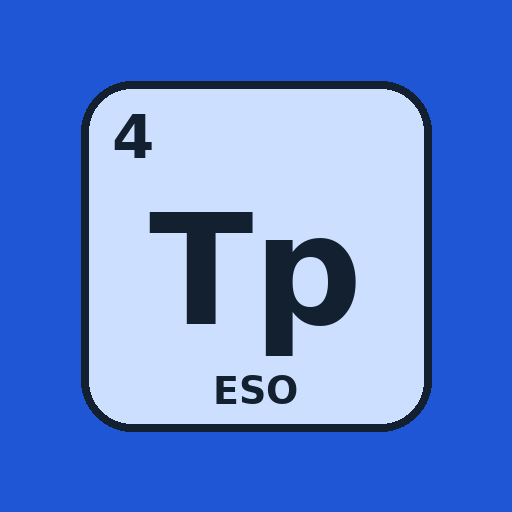
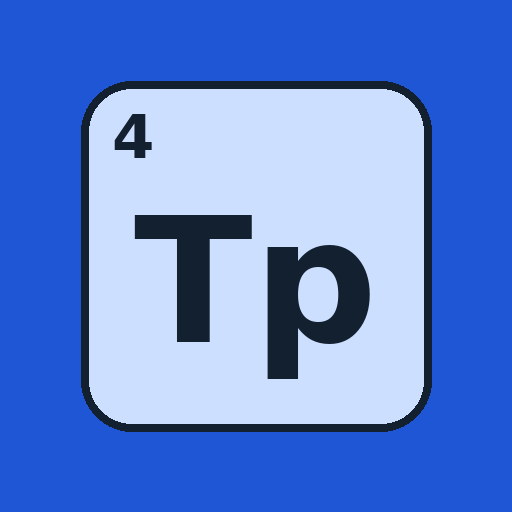
v1.5: revisión con las Human Interface Guidelines (texto mínimo, contraste, ✓/✗, hojas, segmentos, foco, icono)
Claude-Session: https://claude.ai/code/session_01SzTzzxmVfzBBy3eWrkvyKx

Changed region(s): [[0.4062, 0.4688, 0.75, 0.8125], [0.25, 0.4062, 0.5, 0.6875]]

diff --git a/index.html b/index.html
@@ -3,7 +3,7 @@
 <head>
 <meta charset="utf-8">
 <meta name="viewport" content="width=device-width,initial-scale=1,viewport-fit=cover">
-<meta name="app-version" content="1.4">
+<meta name="app-version" content="1.5">
 <meta name="theme-color" content="#ffffff" media="(prefers-color-scheme: light)">
 <meta name="theme-color" content="#17212d" media="(prefers-color-scheme: dark)">
 <meta name="apple-mobile-web-app-status-bar-style" content="default">
@@ -24,7 +24,7 @@ img{max-width:100%}
 :root{
   --bg:#eaf0f5; --surface:#ffffff; --surface-2:#f4f7fa; --ink:#132030; --muted:#5a6b7e; --line:#d3dce6;
   --accent:#1f56d6; --accent-ink:#ffffff; --accent-soft:#dfe8fd;
-  --good:#1d8549; --good-soft:#d9f2e3; --bad:#c0352d; --bad-soft:#fbe0de; --warn:#b26b00;
+  --good:#17703d; --good-soft:#d9f2e3; --bad:#a82a23; --bad-soft:#fbe0de; --warn:#b26b00;
   --c-am:#ffd3c7; --c-at:#ffe3b0; --c-mt:#e0d9f6; --c-lan:#f6d2ec; --c-act:#ead6c8;
   --c-mp:#d0e3ee; --c-sm:#cdeee2; --c-nm:#e0f2c2; --c-hal:#f9f0ad; --c-gn:#cddfff;
   --lv0:#dfe5ec; --lv1:#f6c2bd; --lv2:#ffe08a; --lv3:#8fd9ab;
@@ -69,7 +69,7 @@ header{flex:none;background:var(--surface);border-bottom:1px solid var(--line);p
 .hd h1 small{display:block;font:500 12px var(--f-body);color:var(--muted);letter-spacing:0}
 .hd .sp{flex:1}
 .scope{display:flex;flex-direction:column;align-items:flex-end;gap:2px}
-.scope label{font-size:10px;text-transform:uppercase;letter-spacing:.08em;color:var(--muted);font-weight:600}
+.scope label{font-size:11px;text-transform:uppercase;letter-spacing:.08em;color:var(--muted);font-weight:600}
 .scope select{background:var(--surface-2);border:1px solid var(--line);border-radius:10px;padding:6px 8px;font-size:13px;font-weight:600;max-width:150px}
 @media (pointer:coarse){.scope select,.search input{font-size:16px}}
 
@@ -86,11 +86,11 @@ nav.tabs{flex:none;background:var(--surface);border-top:1px solid var(--line);pa
 .tab{background:none;border:0;padding:8px 4px 9px;display:flex;flex-direction:column;align-items:center;gap:3px;font-size:11.5px;font-weight:600;color:var(--muted)}
 .tab svg{width:24px;height:24px;stroke:currentColor;fill:none;stroke-width:1.8;stroke-linecap:round;stroke-linejoin:round}
 .tab[aria-current="page"]{color:var(--accent)}
-.tab[aria-current="page"] svg{stroke-width:2.3}
+.tab[aria-current="page"] svg{stroke-width:2.3;fill:color-mix(in srgb,currentColor 18%,transparent)}
 
 /* Controles */
 .row{display:flex;flex-wrap:wrap;gap:8px;align-items:center}
-.seg{display:inline-flex;background:var(--surface-2);border:1px solid var(--line);border-radius:11px;padding:3px;gap:2px}
+.seg{display:inline-grid;grid-auto-flow:column;grid-auto-columns:1fr;background:var(--surface-2);border:1px solid var(--line);border-radius:11px;padding:3px;gap:2px}
 .seg button{border:0;background:none;padding:6px 11px;border-radius:8px;font-size:13px;font-weight:600;color:var(--muted)}
 .seg button[aria-pressed="true"]{background:var(--surface);color:var(--ink);box-shadow:0 1px 2px rgb(0 0 0 / .12)}
 .chip{border:1px solid var(--line);background:var(--surface);border-radius:999px;padding:5px 11px 5px 8px;font-size:12.5px;font-weight:500;display:inline-flex;align-items:center;gap:6px}
@@ -113,26 +113,27 @@ nav.tabs{flex:none;background:var(--surface);border-top:1px solid var(--line);pa
 /* Tabla periódica */
 .pt-scroll{overflow-x:auto;margin-inline:calc(-1 * max(16px,env(safe-area-inset-left,0px)));padding-inline:max(16px,env(safe-area-inset-left,0px));padding-bottom:6px;scrollbar-width:thin}
 .pt-wrap{container-type:inline-size}
-.pt{display:grid;grid-template-columns:22px repeat(18,46px);grid-template-rows:20px repeat(7,52px) 12px repeat(2,52px);gap:2px;width:max-content}
+.pt{display:grid;grid-template-columns:24px repeat(18,48px);grid-template-rows:22px repeat(7,52px) 12px repeat(2,52px);gap:2px;width:max-content}
 .pt.fit{grid-template-columns:.5fr repeat(18,minmax(0,1fr));grid-template-rows:auto;grid-auto-rows:auto;width:100%;gap:1.5px}
 .pt.fit .cell,.pt.fit .ph{aspect-ratio:1/1.12}
 .pt.fit .gap-row{height:6px}
-.lbl{font:600 10px var(--f-mono);color:var(--muted);display:flex;align-items:center;justify-content:center}
+.lbl{font:600 11px var(--f-mono);color:var(--muted);display:flex;align-items:center;justify-content:center}
 .pt.fit .lbl{font-size:max(6px,2.1cqi)}
 .cell{position:relative;border:0;border-radius:5px;background:var(--cat,var(--lv0));padding:0;display:flex;flex-direction:column;align-items:center;justify-content:center;line-height:1;min-width:0;transition:opacity .15s,transform .1s}
-.cell .z{position:absolute;top:3px;left:4px;font:500 8.5px var(--f-mono);opacity:.75}
-.cell .s{font:700 17px var(--f-display);letter-spacing:-.02em}
-.cell .n{font-size:7.5px;margin-top:3px;max-width:94%;overflow:hidden;text-overflow:ellipsis;white-space:nowrap;opacity:.85}
+.cell .z{position:absolute;top:3px;left:4px;font:500 11px var(--f-mono);opacity:.8}
+.cell .s{font:700 19px var(--f-display);letter-spacing:-.02em;margin-top:8px}
+.cell .n{display:none}
 .pt.fit .cell{border-radius:3px}
 .pt.fit .cell .z,.pt.fit .cell .n{display:none}
+.pt.fit .cell .s{margin-top:0}
 .pt.fit .cell .s{font-size:max(8px,2.9cqi);letter-spacing:-.04em}
 .cell:active{transform:scale(.94)}
 .cell.dim{opacity:.18}
 .cell.hide-s .s,.cell.hide-s .n{visibility:hidden}
 .pt.mastery .cell{background:var(--lvc,var(--lv0))}
-.ph{border:1px dashed var(--line);border-radius:5px;display:flex;align-items:center;justify-content:center;font:600 8px var(--f-mono);color:var(--muted);text-align:center;line-height:1.1}
+.ph{border:1px dashed var(--line);border-radius:5px;display:flex;align-items:center;justify-content:center;font:600 11px var(--f-mono);color:var(--muted);text-align:center;line-height:1.1}
 .pt.fit .ph{font-size:max(5px,1.5cqi)}
-.frow-l{grid-column:1/4;display:flex;align-items:center;justify-content:flex-end;padding-right:6px;font-size:10px;font-weight:600;color:var(--muted)}
+.frow-l{grid-column:1/4;display:flex;align-items:center;justify-content:flex-end;padding-right:6px;font-size:11px;font-weight:600;color:var(--muted)}
 .pt.fit .frow-l{font-size:max(6px,1.8cqi)}
 .legend{display:flex;flex-wrap:wrap;gap:6px}
 .lvleg{display:flex;flex-wrap:wrap;gap:12px;font-size:12.5px}
@@ -163,7 +164,7 @@ nav.tabs{flex:none;background:var(--surface);border-top:1px solid var(--line);pa
 .el-head h2{font-size:24px}
 .facts{display:grid;grid-template-columns:1fr 1fr;gap:1px;background:var(--line);border:1px solid var(--line);border-radius:12px;overflow:hidden;margin-top:14px}
 .facts div{background:var(--surface);padding:9px 11px;min-width:0}
-.facts dt{font-size:10.5px;text-transform:uppercase;letter-spacing:.08em;color:var(--muted);font-weight:600}
+.facts dt{font-size:11px;text-transform:uppercase;letter-spacing:.08em;color:var(--muted);font-weight:600}
 .facts dd{margin:2px 0 0;font-weight:600}
 .facts .wide{grid-column:1/-1}
 .mono{font-family:var(--f-mono);font-weight:500;font-size:13.5px;word-break:break-word}
@@ -282,13 +283,13 @@ nav.tabs{flex:none;background:var(--surface);border-top:1px solid var(--line);pa
 .fill-row{display:flex;gap:6px;justify-content:center;flex-wrap:wrap}
 .slot{display:flex;align-items:center;gap:8px}
 .slot .pl{width:24px;text-align:right;font:600 11px var(--f-mono);color:var(--muted)}
-.box{width:58px;height:52px;border-radius:10px;border:2px dashed var(--line);background:var(--surface);display:grid;place-items:center;font:700 20px var(--f-display);position:relative}
+.box{width:60px;height:56px;border-radius:10px;border:2px dashed var(--line);background:var(--surface);display:grid;place-items:center;font:700 20px var(--f-display);position:relative}
 .fill-row .box{width:clamp(34px,10.5vw,58px)}
 .box.cur{border-color:var(--accent);border-style:solid;box-shadow:0 0 0 3px var(--accent-soft)}
 .box.done{border-style:solid;border-color:transparent;background:var(--cat)}
 .box.bad{border-color:var(--bad);border-style:solid;background:var(--bad-soft);color:var(--bad)}
-.box small{position:absolute;top:2px;left:4px;font:500 9px var(--f-mono);opacity:.7}
-.bank{display:flex;flex-wrap:wrap;gap:8px;justify-content:center}
+.box small{position:absolute;top:2px;left:4px;font:500 11px var(--f-mono);opacity:.75}
+.bank{display:flex;flex-wrap:wrap;gap:10px;justify-content:center}
 .bank button{min-width:56px;height:48px;border-radius:12px;border:1.5px solid var(--line);background:var(--surface);font:700 19px var(--f-display)}
 .bank button.used{visibility:hidden}
 .bank button.shake{animation:shake .35s;border-color:var(--bad);background:var(--bad-soft)}
@@ -310,12 +311,14 @@ nav.tabs{flex:none;background:var(--surface);border-top:1px solid var(--line);pa
 .gear{flex:none;width:44px;height:44px;border:0;background:none;border-radius:12px;display:grid;place-items:center;color:var(--muted);margin-right:-8px}
 .gear svg{width:22px;height:22px;stroke:currentColor;fill:none;stroke-width:1.8;stroke-linecap:round;stroke-linejoin:round}
 .gear:active{background:var(--surface-2)}
+.sheet:focus{outline:none}
 .hd h1 small span{font-family:var(--f-mono);font-size:11px}
 :root[data-fs="s"] main,:root[data-fs="s"] .sheet{zoom:.9}
 :root[data-fs="l"] main,:root[data-fs="l"] .sheet{zoom:1.15}
 :root[data-fs="xl"] main,:root[data-fs="xl"] .sheet{zoom:1.3}
+:root[data-fs="xxl"] main,:root[data-fs="xxl"] .sheet{zoom:1.6}
 .set-group{display:flex;flex-direction:column;gap:8px;margin-top:14px}
-.set-group .seg{align-self:flex-start;flex-wrap:wrap}
+.set-group .seg{align-self:stretch;grid-auto-flow:row;grid-template-columns:repeat(auto-fit,minmax(96px,1fr))}
 .preview{font-size:15px;color:var(--muted)}
 .install-banner{display:flex;align-items:center;gap:10px;background:var(--surface);border:1px solid var(--line);border-radius:14px;padding:8px 6px 8px 12px}
 .install-banner .ic{flex:none;width:36px;height:36px;border-radius:9px;overflow:hidden}
@@ -427,6 +430,7 @@ const SCOPES={
 const VERSION=(document.querySelector('meta[name="app-version"]')||{}).content||"dev";
 // Lo que trae cada versión (lo más nuevo, arriba)
 const NOVEDADES=[
+  ["1.5",["🍏 Revisada con las guías de diseño de Apple: textos de al menos 11 puntos, más contraste, ✓ y ✗ en las respuestas (no solo colores) y tamaño de letra «Enorme»","🔲 Vista «Grande» de la tabla más legible","🎨 Icono más limpio"]],
   ["1.4",["⚙ Nuevo botón de ajustes (arriba a la derecha): tamaño de letra y modo claro u oscuro","🔢 La versión se ve siempre en la cabecera","📲 Instrucciones paso a paso para añadir la app a la pantalla de inicio del iPhone o del Android"]],
   ["1.3",["📍 Nueva pregunta en el test: «Colocar en la tabla». Te dicen un elemento y tocas su casilla en la tabla vacía","🧩 Nuevo modo «Rellenar familias» (en Test): coloca en orden los elementos de cada grupo o periodo, con su truco para memorizar"]],
   ["1.2",["📱 Mejor en el móvil: la tabla entera aprovecha todo el ancho y se lee mejor","👉 En las fichas, desliza la tarjeta: a la derecha si te la sabías, a la izquierda si no","➡ En el test, el botón «Siguiente» queda siempre a mano, sin tener que bajar","⬇ La ficha de un elemento se cierra deslizándola hacia abajo o con el botón «atrás» del móvil","🔍 Al buscar ya no se amplía la pantalla en el iPhone"]],
@@ -564,7 +568,7 @@ function openSheet(z){
   s.hidden=false;sheetShown();
 }
 function closeSheet(fromPop){const s=$("#sheet");if(s.hidden)return;s.hidden=true;s.innerHTML="";if(!fromPop&&history.state&&history.state.sheet)history.back()}
-function sheetShown(){if(!(history.state&&history.state.sheet))history.pushState({sheet:1},"")}
+function sheetShown(){if(!(history.state&&history.state.sheet))history.pushState({sheet:1},"");const sh=document.querySelector("#sheet .sheet");if(sh){sh.tabIndex=-1;sh.focus({preventScroll:true})}}
 addEventListener("popstate",()=>closeSheet(true));
 const vibrar=ms=>{try{navigator.vibrate&&navigator.vibrate(ms)}catch(e){}};
 
@@ -707,7 +711,7 @@ function renderTest(){
     <div class="bar"><i style="width:${(QZ.i+(answered?1:0))/ROUND*100}%"></i></div>
     <div class="qcard"><span class="qtype">${QTYPES[q.t]}</span>${q.show}<div class="qprompt">${q.prompt}</div></div>
     ${q.t==="place"?placeTable(q,answered):""}
-    <div class="opts">${q.opts.map((o,i)=>{let c="";if(answered){if(o===q.correct)c=" ok";else if(o===q.picked)c=" ko"}return `<button class="opt${c}" data-opt="${i}" ${answered?"disabled":""}><span class="k">${"ABCD"[i]}</span><span>${optLabel(q,o)}</span></button>`}).join("")}</div>
+    <div class="opts">${q.opts.map((o,i)=>{let c="";if(answered){if(o===q.correct)c=" ok";else if(o===q.picked)c=" ko"}return `<button class="opt${c}" data-opt="${i}" ${answered?"disabled":""}><span class="k" ${c?`aria-label="${c===" ok"?"Correcta":"Incorrecta"}"`:""}>${c===" ok"?"✓":c===" ko"?"✗":"ABCD"[i]}</span><span>${optLabel(q,o)}</span></button>`}).join("")}</div>
     ${answered?`<div class="feedback ${q.picked===q.correct?"ok":"ko"}"><strong>${q.picked===q.correct?"¡Correcto!":(q.t==="place"?"No es esa casilla. Has tocado el "+BYZ[q.picked].n.toLowerCase()+" ("+BYZ[q.picked].s+")":"No es esa")}</strong>${q.expl}${ORIGIN[q.z]&&(q.t==="n2s"||q.t==="s2n")?" "+ORIGIN[q.z]:""}</div>
       <div class="next-bar"><button class="btn ghost" style="flex:1" data-z="${q.z}">Ver ficha</button><button class="btn" style="flex:2" id="qz-next">${QZ.i+1<ROUND?"Siguiente":"Ver resultado"}</button></div>`:""}
   </div></section>`;
@@ -885,7 +889,7 @@ function applyLook(){
 }
 applyLook();
 matchMedia("(prefers-color-scheme: dark)").addEventListener("change",applyLook);
-const FS=[["s","Pequeña"],["m","Normal"],["l","Grande"],["xl","Muy grande"]];
+const FS=[["s","Pequeña"],["m","Normal"],["l","Grande"],["xl","Muy grande"],["xxl","Enorme"]];
 const THEMES=[["auto","Automático"],["light","Claro"],["dark","Oscuro"]];
 function openSettings(){
   const s=$("#sheet");
@@ -903,7 +907,7 @@ function openSettings(){
       <p style="margin:0">Tabla periódica 4º ESO · <b>versión ${VERSION}</b></p>
       <p class="muted" style="margin:0;font-size:13px">Se actualiza sola cuando hay una versión nueva.</p>
       <button class="btn ghost" id="set-nov" style="align-self:flex-start">Ver novedades</button></div>
-    <div class="sheet-nav"><button class="btn block" data-close="1">Hecho</button></div>
+    <div class="sheet-nav"><button class="btn block" data-close="1">Cerrar</button></div>
   </div></div>`;
   s.hidden=false;sheetShown();
 }
